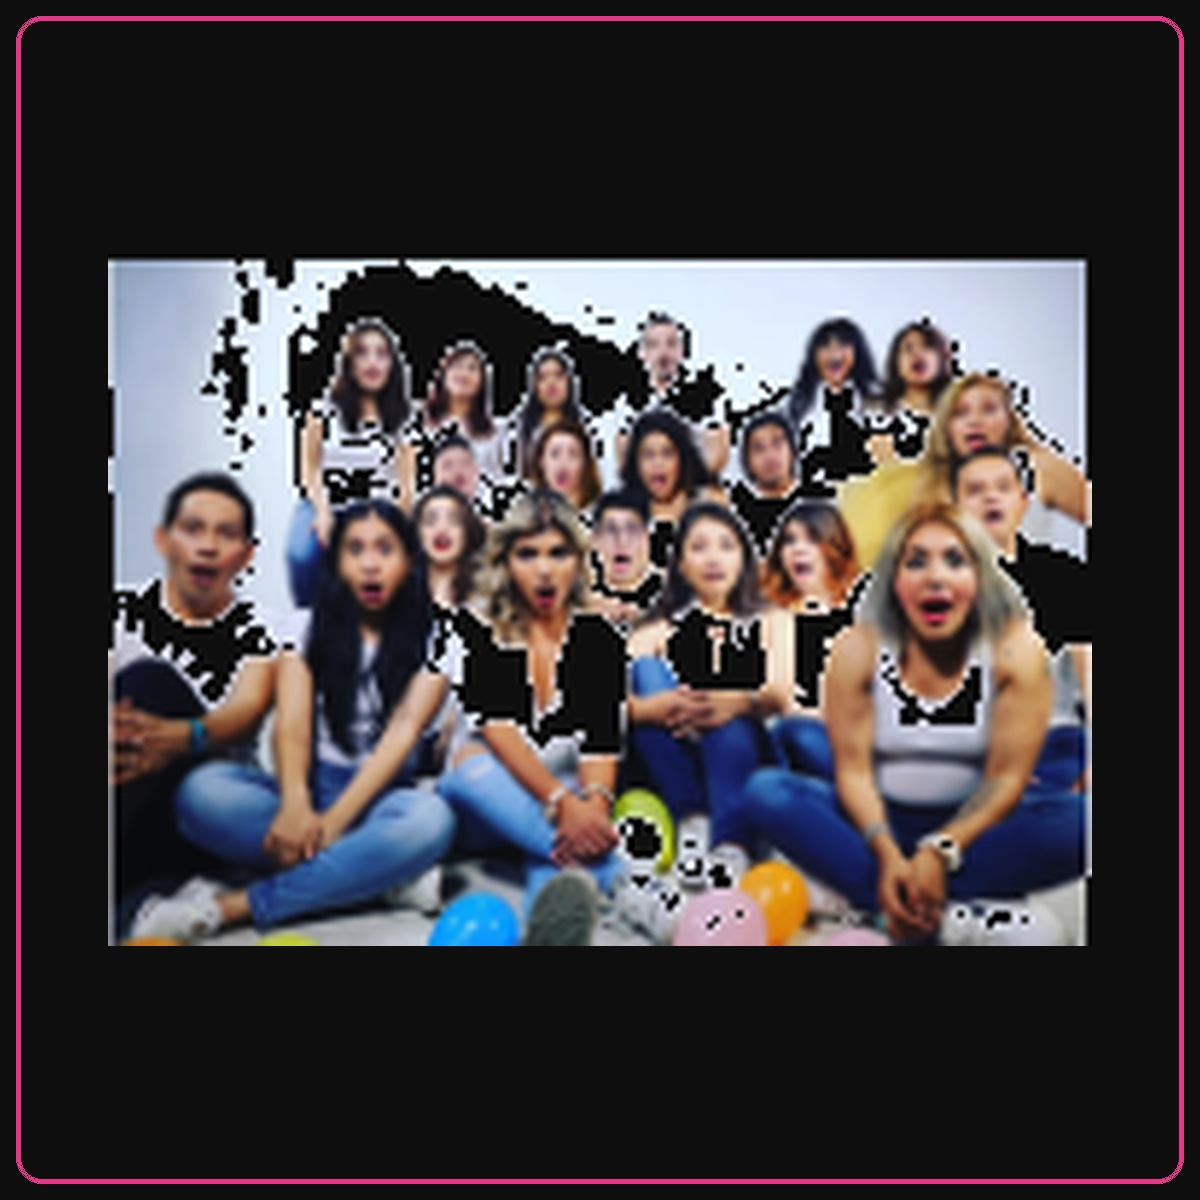
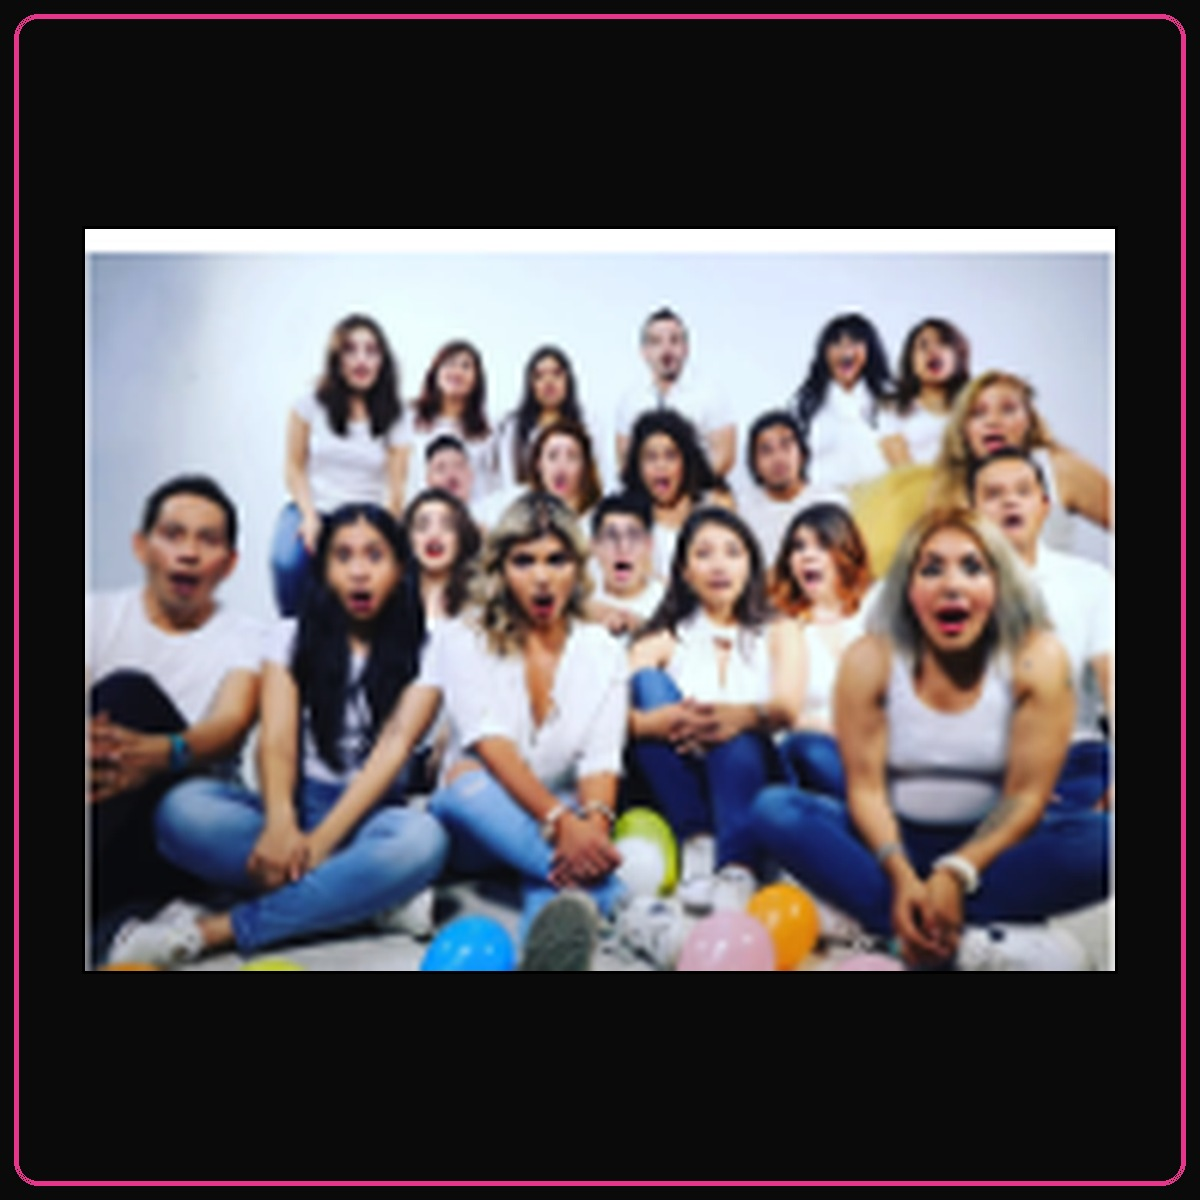
Escuela Dupeyron: Nosotros — matte negro centrado (sin cutout feo)

diff --git a/escuela-dupeyron/index.html b/escuela-dupeyron/index.html
@@ -230,7 +230,7 @@
         <p style="margin:0; font-size:clamp(15px,1.8vw,17px); line-height:1.7; color:#2A2A2A; max-width:56ch">Una comunidad de personas que, como tú, se atreven a explorar, reír y crecer.</p>
       </div>
       <div style="min-width:0; display:flex; justify-content:center">
-        <img src="ASSETS/nosotros-comunidad.jpg?v=3" alt="Comunidad de la Escuela Dupeyron" width="1200" height="1200" style="width:100%; max-width:420px; height:auto; display:block; border-radius:20px">
+        <img src="ASSETS/nosotros-comunidad.jpg?v=4" alt="Comunidad de la Escuela Dupeyron" width="1200" height="1200" style="width:100%; max-width:420px; height:auto; display:block; border-radius:20px">
       </div>
     </div>
   </section>
